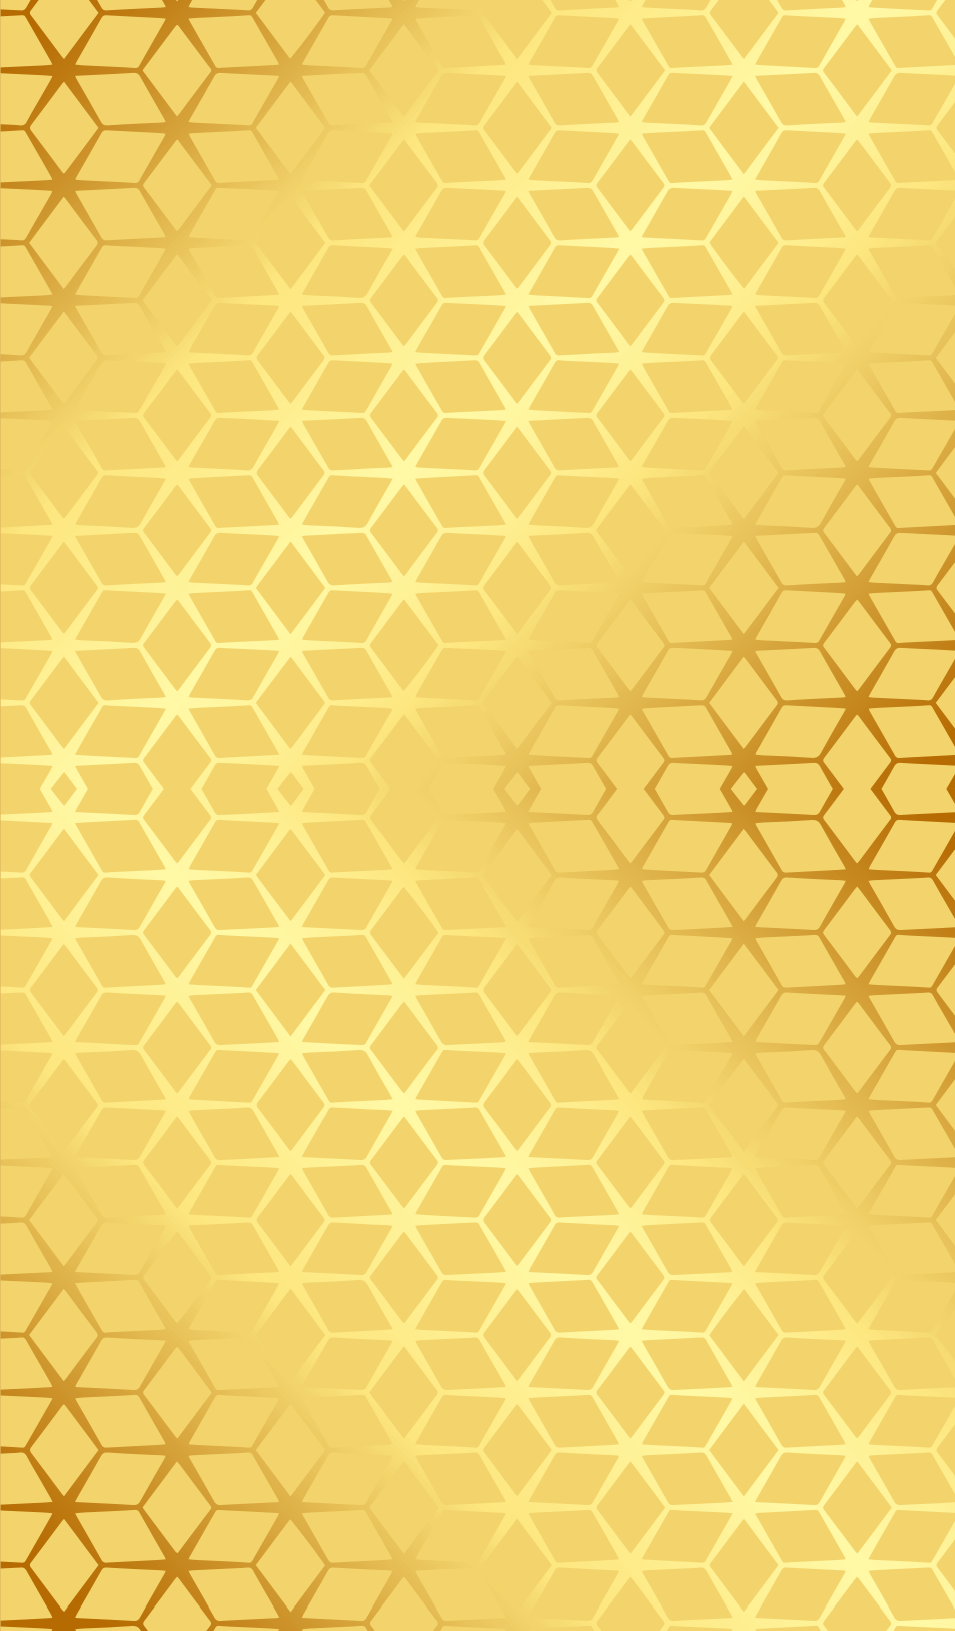
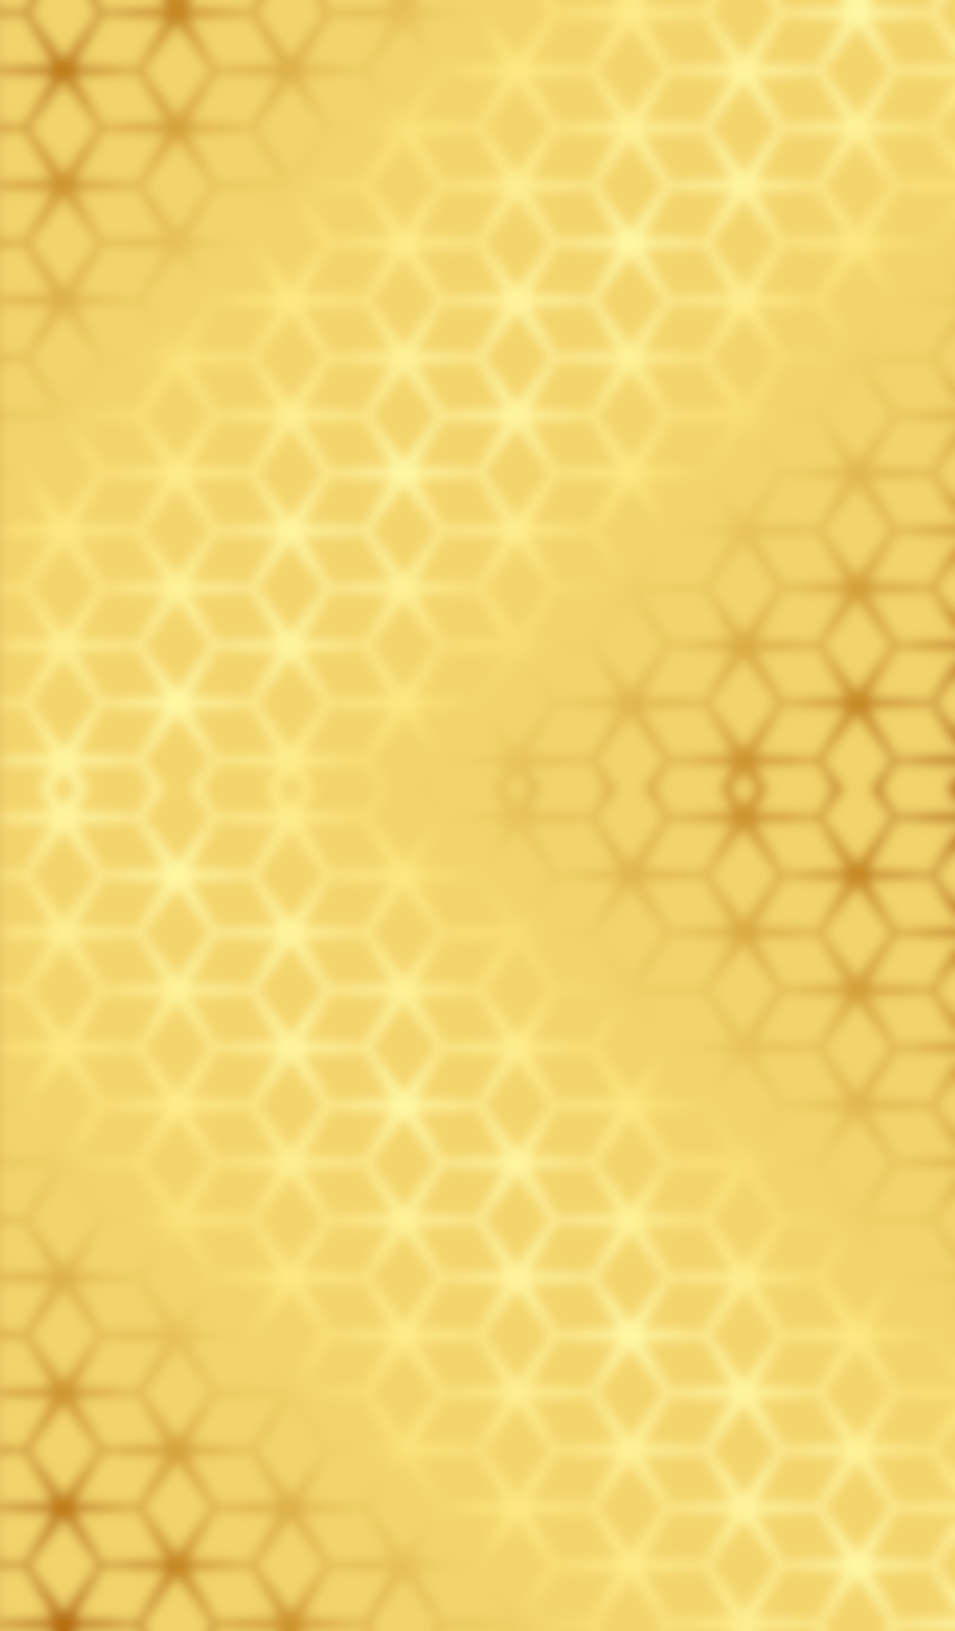
changed background main image, added blur, and other effects

diff --git a/assets/css/style.css b/assets/css/style.css
@@ -12,11 +12,13 @@ body{
 
 #animated-background{
   background-image: url('../image/backgrounds/background.png');
+  background-blend-mode: hard-light;
   background-size: cover;
   background-color: black;
   overflow: hidden;
   height: 100vh;
 }
+
 .part{
   height: 5%;
 }
@@ -25,7 +27,7 @@ body{
  position: relative;
  z-index: 2;
  height: 90%;
- background-image: url('../image/backgrounds/background-new.png');
+ background-image: url('../image/backgrounds/last-background.png');
  background-position: center;
  background-repeat: no-repeat;
  background-size: contain;
@@ -53,7 +55,6 @@ svg{
   font-size: 70px;
   top: 11vh;
   z-index: 6;
-  color: linear-gradient(0deg, rgba(255,255,255,1) 0%, rgba(223,176,0,0.5298494397759104) 100%);
   animation-duration: 2s;
   animation-name: glowing;
   animation-iteration-count: infinite;
@@ -143,5 +144,7 @@ img{
     text-shadow: 1px 1px 0px white,-1px -1px 0px white,0px 1px 0px white,0px -1px 0px white;
   }
 }
+
+
 
 /*---- INDEX ----*/

diff --git a/index.html b/index.html
@@ -37,8 +37,7 @@
         
 
     <div class="row part">
-            <div class="col" id="left-top-light"></div>
-            <div class="col" id="right-top-light"></div>
+            
         </div>
         <div id="image-background" class="row justify-content-center align-items-center">
             <div class="col-4">
@@ -49,8 +48,7 @@
             </div>
         </div>
         <div class="row part">
-            <div class="col" id="left-bottom-light"></div>
-            <div class="col" id="right-bottom-light"></div>
+            
         </div>
     </div>
 <script>animationJewels()</script>

diff --git a/assets/js/jewel-rain-effects.js b/assets/js/jewel-rain-effects.js
@@ -26,3 +26,4 @@ function moving(jewel,speed){
   }
 
 }
+
